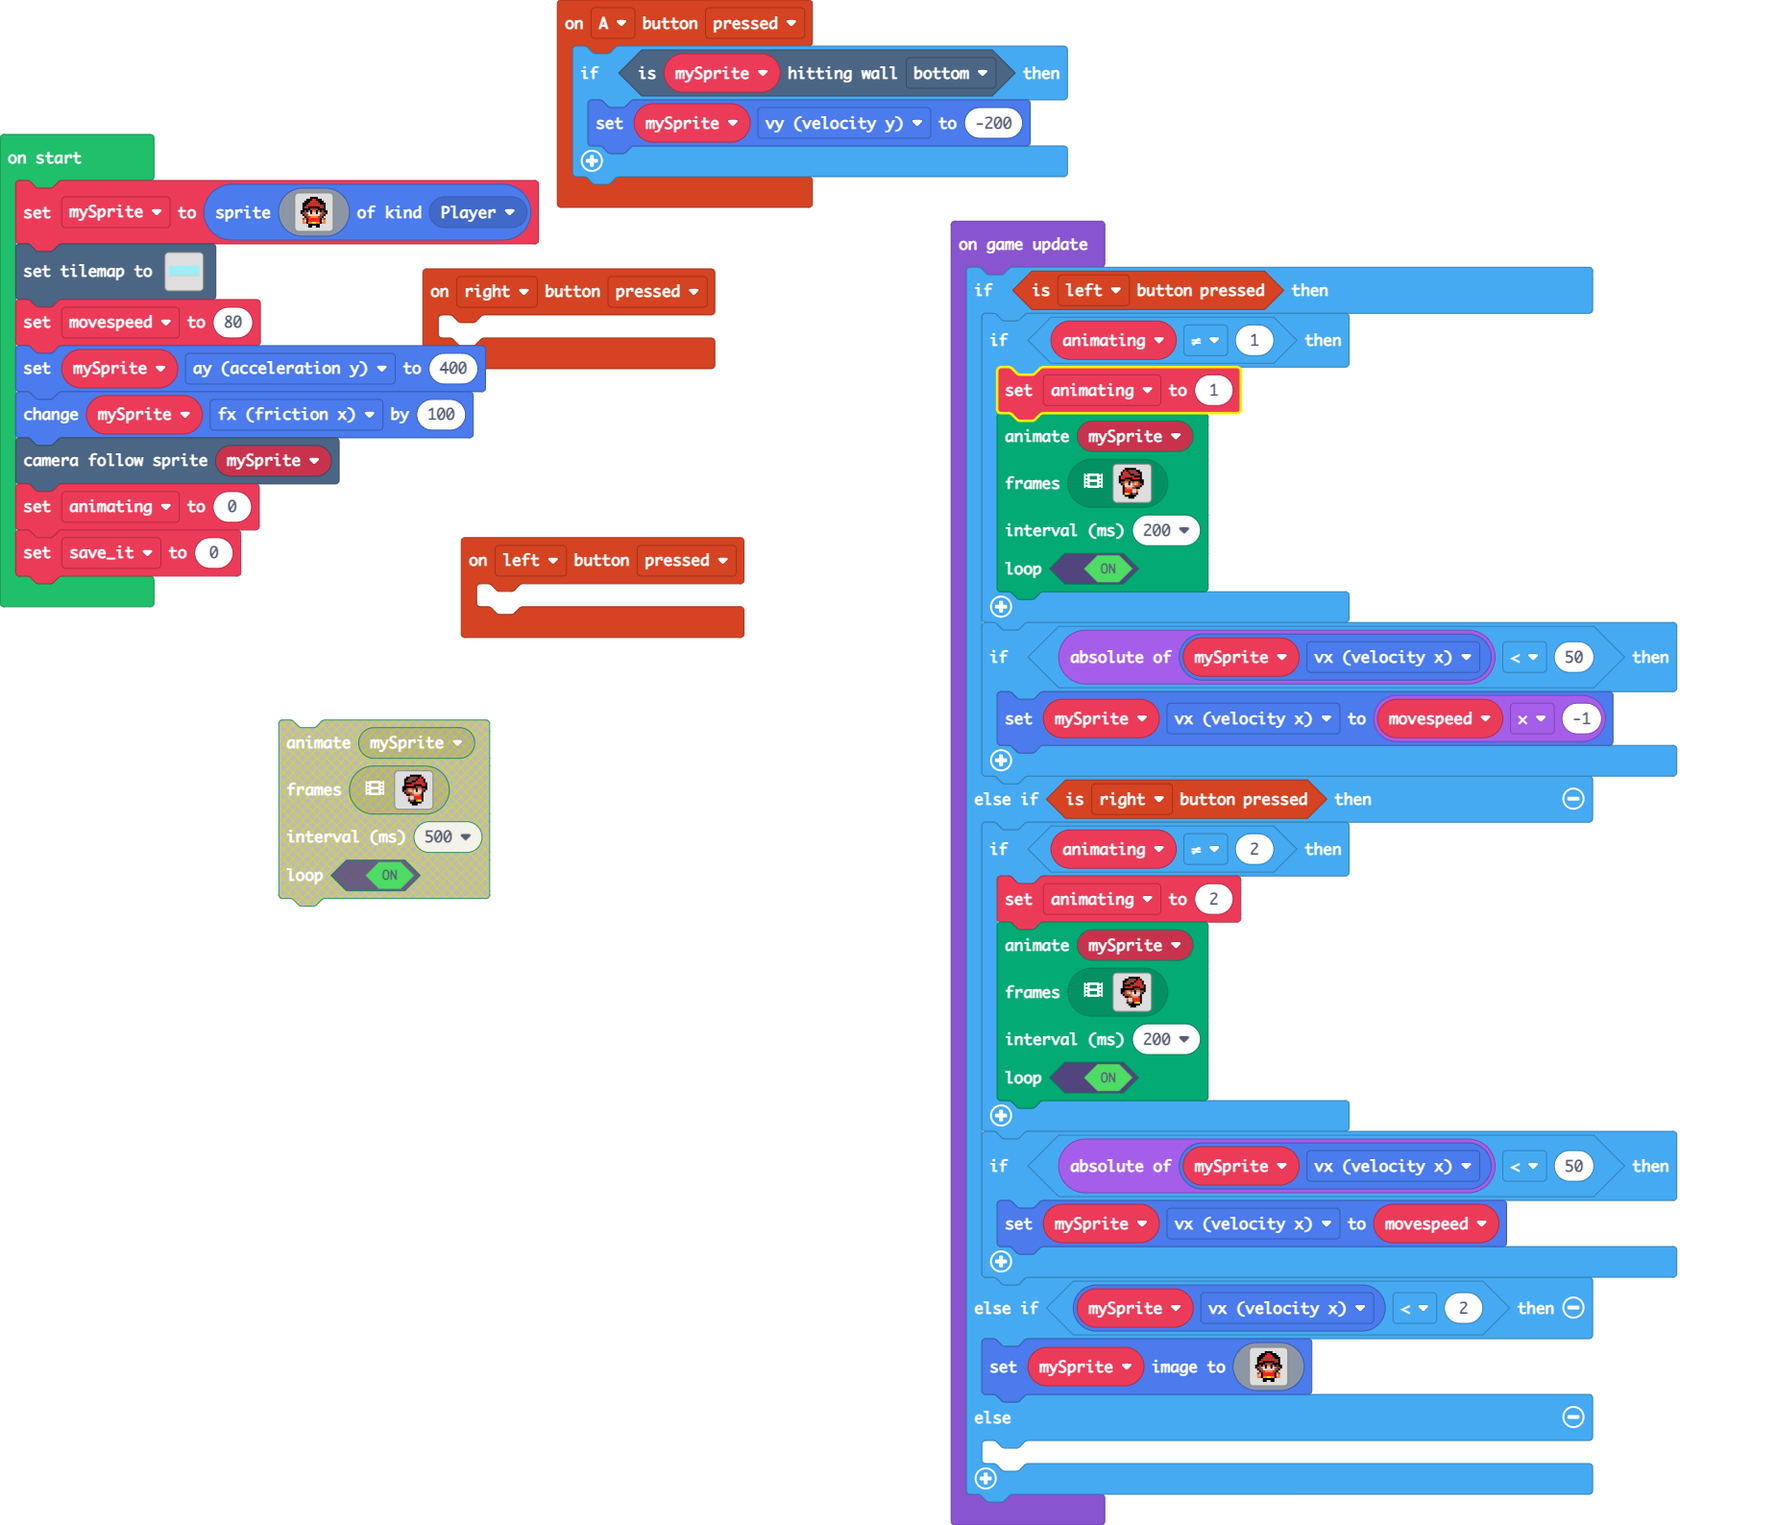
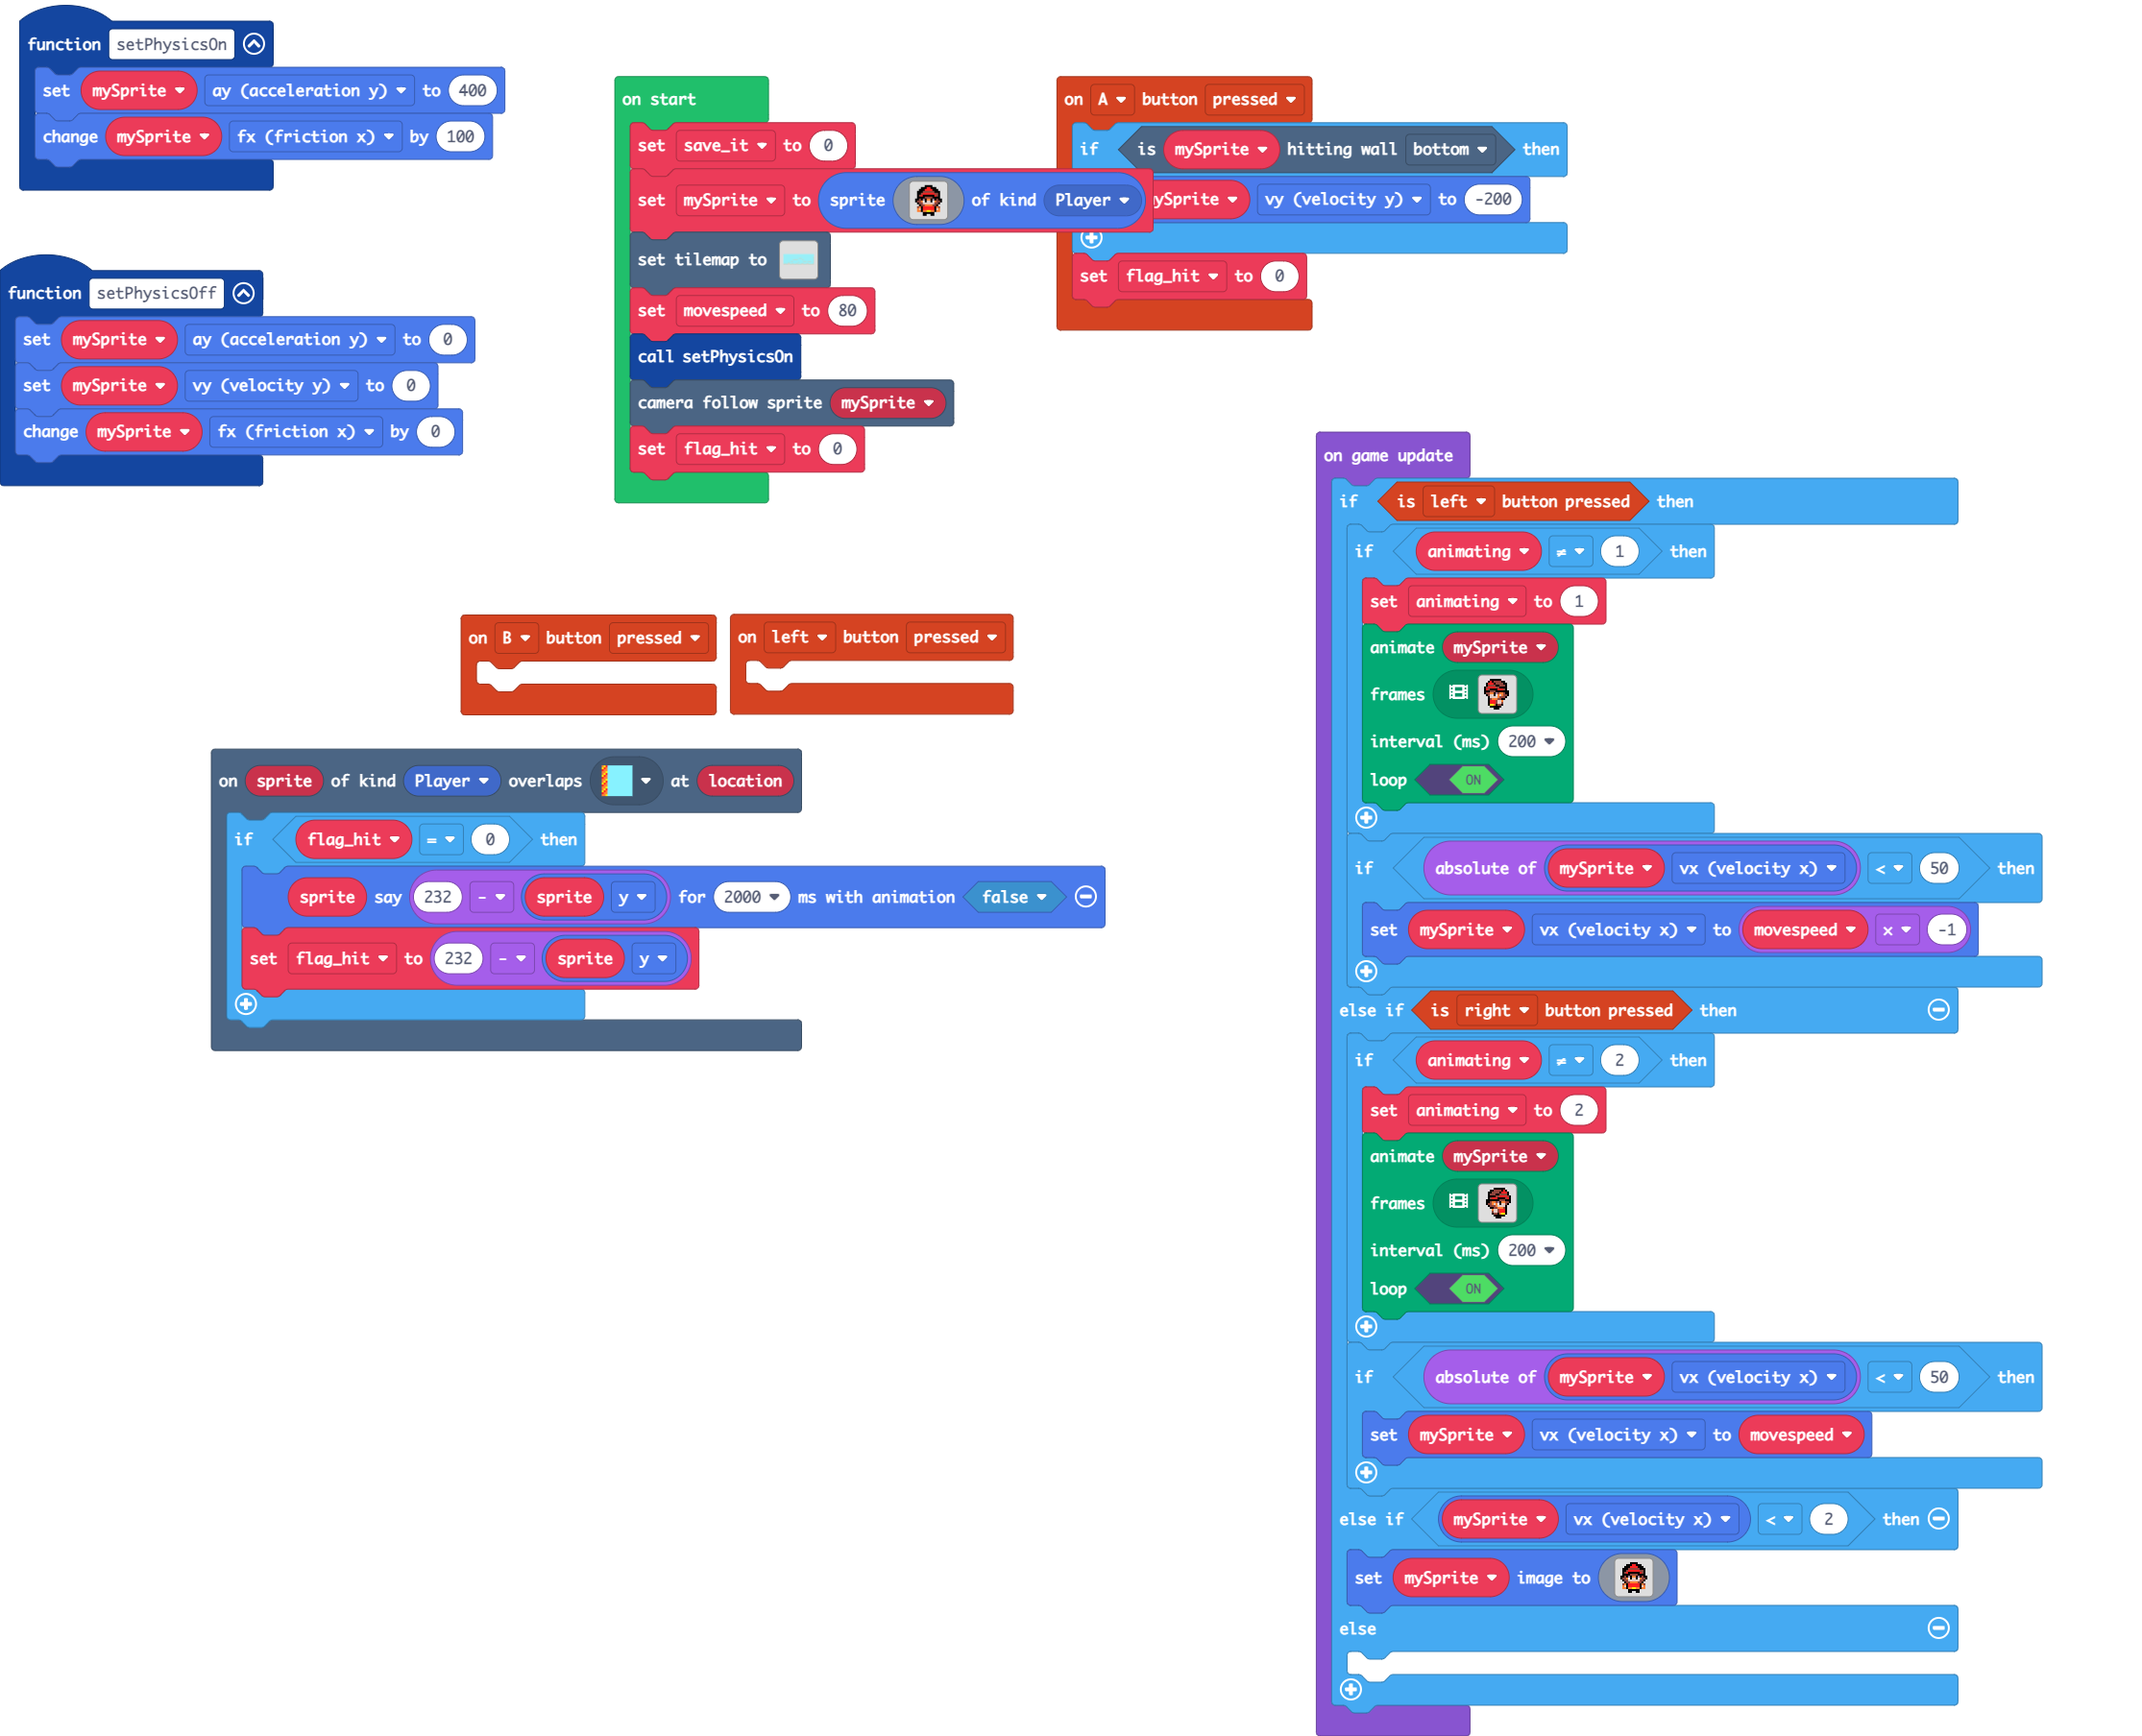
Added scoring flag at the end

diff --git a/tilemap.g.ts b/tilemap.g.ts
@@ -10,28 +10,13 @@ namespace myTiles {
     export const tile3 = image.ofBuffer(hex``);
     //% fixedInstance jres blockIdentity=images._tile
     export const tile4 = image.ofBuffer(hex``);
+    //% fixedInstance jres blockIdentity=images._tile
+    export const tile5 = image.ofBuffer(hex``);
+    //% fixedInstance jres blockIdentity=images._tile
+    export const tile6 = image.ofBuffer(hex``);
 
     helpers._registerFactory("tilemap", function(name: string) {
         switch(helpers.stringTrim(name)) {
-            case "level1":
-            case "level1":return tiles.createTilemap(hex`30001000010101010101010101010101010101010101010101010101010101010101010101010101010101010101010101010101010101010101020101010101010101010101010101010101010101010101010101010101010101010101010101010101010101010101010101010101010101010101010101010101010101010101010101010101010101010101010101010101010101010101010101010101010101010101010101010101010101010101010101010101010101010101010101010101010101010101010101010101010101010101010101010101010101010101010101010101010101010101010101010101010201010101010101010101010101010101010101010101010101010101010101010101010101010101020101010201010101010101010101010101010101010101010101010101030303030301010101010101010101010101010101010101010101010101010201010101010101010101020101010101010101010101010101010101010201010101010101010101010101010101010101010101020101030303030303030301010101010103030301010101010101010101010101010101010101010101010101010101010101010101010101010101010101010102010101010101010101010101010101010201010101010101010101010101010101010101010101020101010201010101010101010101010101010101020101010101010101010201010101010101030303010102010101010101010101010101010303030303010101010303030303030303010201010101010101010101010101010101010101010103030102010101010101010102010101010101010101010101010101010101010105040102010101010101020101010101010101010101010101010101010101010101020101010201010101080101010506070101010108010101010101080101010101010105040101010101010504010101010101010101030303060303030606060303030306030303030303060303030303030306060303030303030606030303030303030303`, img`
-................................................
-................................................
-................................................
-................................................
-................................................
-................................................
-........................22222...................
-................................................
-...............22222222......222................
-................................................
-................................................
-............222................22222....22222222
-.......................22.......................
-........22......................................
-...2...222....2......2.......22......22.........
-222222222222222222222222222222222222222222222222
-`, [myTiles.transparency16,myTiles.tile1,myTiles.tile2,sprites.castle.tilePath2,sprites.castle.tilePath3,sprites.castle.tilePath1,sprites.castle.tilePath5,sprites.castle.tilePath6,myTiles.tile4], TileScale.Sixteen);
             case "level2":
             case "level2":return tiles.createTilemap(hex`30001000010101010101010101010101010101010101010101010101010101010101010101010101010101010101010101010101010101010101020101010101010101010101010101010101010101010101010101010101010101010101010101010101010101010101010101010101010101010101010101010101010101010101010101010101010101010101010101010101010101010101010101010101010101010101010101010101010101010101010101010101010101010101010101010101010101010101010101010101010101010101010101010101010101010101010101010101010101010101010101010101010201010101010101010101010101010101010101010101010101010101010101010101010101010101020101010201010101010101010101010101010101010101010101010101030303030301010101010101010101010101010101010101010101010101010201010101010101010101020101010101010101010101010101010101010201010101010101010101010101010101010101010101020101030303030303030301010101010103030301010101010101010101010101010101010101010101010101010101010101010101010101010101010101010102010101010101010101010101010101010201010101010101010101010101010101010101010101020101010201010101010101010101010101010101020101010101010101010201010101010101030303010102010101010101010101010101010303030303010101010303030303030303010201010101010101010101010101010101010101010103030102010101010101010102010101010101010101010101010101010101010105040102010101010101020101010101010101010101010101010101010101010101020101010201010101080101010506070101010108010101010101080101010101010105040101010101010504010101010101010101030303060303030606060303030306030303030303060303030303030306060303030303030606030303030303030303`, img`
 ................................................
@@ -70,6 +55,25 @@ namespace myTiles {
 . . . . . . . . . . . . . . . . 
 . . . . . . . . . . . . . . . . 
 `, [myTiles.transparency16], TileScale.Sixteen);
+            case "level1":
[1 lines of base64/hex data omitted]
+................................................
+................................................
+................................................
+................................................
+................................................
+................................................
+........................22222...................
+................................................
+...............22222222......222................
+................................................
+................................................
+............222................22222..222222....
+.......................22.......................
+........22......................................
+...2...222....2......2.......22......22.........
+222222222222222222222222222222222222222222222222
+`, [myTiles.transparency16,myTiles.tile1,myTiles.tile2,sprites.castle.tilePath2,sprites.castle.tilePath3,sprites.castle.tilePath1,sprites.castle.tilePath5,sprites.castle.tilePath6,myTiles.tile4,myTiles.tile5,myTiles.tile6], TileScale.Sixteen);
         }
         return null;
     })
@@ -85,6 +89,10 @@ namespace myTiles {
             case "tile3":return tile3;
             case "myTile2":
             case "tile4":return tile4;
+            case "myTile3":
+            case "tile5":return tile5;
+            case "myTile4":
+            case "tile6":return tile6;
         }
         return null;
     })

diff --git a/main.ts b/main.ts
@@ -1,15 +1,34 @@
+function setPhysicsOn () {
+    mySprite.ay = 400
+    mySprite.fx += 100
+}
+function setPhysicsOff () {
+    mySprite.ay = 0
+    mySprite.vy = 0
+    mySprite.fx += 0
+}
+controller.B.onEvent(ControllerButtonEvent.Pressed, function () {
+	
+})
 controller.A.onEvent(ControllerButtonEvent.Pressed, function () {
     if (mySprite.isHittingTile(CollisionDirection.Bottom)) {
         mySprite.vy = -200
     }
+    flag_hit = 0
 })
 controller.left.onEvent(ControllerButtonEvent.Pressed, function () {
 	
 })
-controller.right.onEvent(ControllerButtonEvent.Pressed, function () {
-	
+scene.onOverlapTile(SpriteKind.Player, assets.tile`myTile3`, function (sprite, location) {
+    if (flag_hit == 0) {
+        sprite.sayText(232 - sprite.y, 2000, false)
+        flag_hit = 232 - sprite.y
+    }
 })
+let animating = 0
+let flag_hit = 0
 let mySprite: Sprite = null
+let save_it = 0
 mySprite = sprites.create(img`
     . . . . . . f f f f . . . . . . 
     . . . . f f f 2 2 f f f . . . . 
@@ -30,11 +49,9 @@ mySprite = sprites.create(img`
     `, SpriteKind.Player)
 tiles.setTilemap(tilemap`level1`)
 let movespeed = 80
-mySprite.ay = 400
-mySprite.fx += 100
+setPhysicsOn()
 scene.cameraFollowSprite(mySprite)
-let animating = 0
-let save_it = 0
+flag_hit = 0
 game.onUpdate(function () {
     if (controller.left.isPressed()) {
         if (animating != 1) {

diff --git a/main.py b/main.py
@@ -7,6 +7,14 @@ def on_left_pressed():
     pass
 controller.left.on_event(ControllerButtonEvent.PRESSED, on_left_pressed)
 
+def on_overlap_tile(sprite, location):
+    sprite.say_text(location, 5000, False)
+scene.on_overlap_tile(SpriteKind.player,
+    assets.tile("""
+        myTile3
+    """),
+    on_overlap_tile)
+
 def on_right_pressed():
     pass
 controller.right.on_event(ControllerButtonEvent.PRESSED, on_right_pressed)
@@ -38,33 +46,94 @@ movespeed = 80
 mySprite.ay = 400
 mySprite.fx += 100
 scene.camera_follow_sprite(mySprite)
-animating = 'none'
+animating = 0
+save_it = 0
 
 def on_on_update():
     global animating
     if controller.left.is_pressed():
-        mySprite.set_image(img("""
-            . . . . . . . . . . . . . . . . 
-                        . . . . . f f f f f f . . . . . 
-                        . . . . f 2 f e e e e f f . . . 
-                        . . . f 2 2 2 f e e e e f f . . 
-                        . . . f e e e e f f e e e f . . 
-                        . . f e 2 2 2 2 e e f f f f . . 
-                        . . f 2 e f f f f 2 2 2 e f . . 
-                        . . f f f e e e f f f f f f f . 
-                        . . f e e 4 4 f b e 4 4 e f f . 
-                        . . . f e d d f 1 4 d 4 e e f . 
-                        . . . . f d d d e e e e e f . . 
-                        . . . . f e 4 e d d 4 f . . . . 
-                        . . . . f 2 2 e d d e f . . . . 
-                        . . . f f 5 5 f e e f f f . . . 
-                        . . . f f f f f f f f f f . . . 
-                        . . . . f f f . . . f f . . . .
-        """))
+        if animating != 1:
+            animating = 1
+            animation.run_image_animation(mySprite,
+                [img("""
+                        . . . . f f f f f f . . . . . . 
+                                        . . . f 2 f e e e e f f . . . . 
+                                        . . f 2 2 2 f e e e e f f . . . 
+                                        . . f e e e e f f e e e f . . . 
+                                        . f e 2 2 2 2 e e f f f f . . . 
+                                        . f 2 e f f f f 2 2 2 e f . . . 
+                                        . f f f e e e f f f f f f f . . 
+                                        . f e e 4 4 f b e 4 4 e f f . . 
+                                        . . f e d d f 1 4 d 4 e e f . . 
+                                        . . . f d d d d 4 e e e f . . . 
+                                        . . . f e 4 4 4 e e f f . . . . 
+                                        . . . f 2 2 2 e d d 4 . . . . . 
+                                        . . . f 2 2 2 e d d e . . . . . 
+                                        . . . f 5 5 4 f e e f . . . . . 
+                                        . . . . f f f f f f . . . . . . 
+                                        . . . . . . f f f . . . . . . .
+                    """),
+                    img("""
+                        . . . . . . . . . . . . . . . . 
+                                        . . . . f f f f f f . . . . . . 
+                                        . . . f 2 f e e e e f f . . . . 
+                                        . . f 2 2 2 f e e e e f f . . . 
+                                        . . f e e e e f f e e e f . . . 
+                                        . f e 2 2 2 2 e e f f f f . . . 
+                                        . f 2 e f f f f 2 2 2 e f . . . 
+                                        . f f f e e e f f f f f f f . . 
+                                        . f e e 4 4 f b e 4 4 e f f . . 
+                                        . . f e d d f 1 4 d 4 e e f . . 
+                                        . . . f d d d e e e e e f . . . 
+                                        . . . f e 4 e d d 4 f . . . . . 
+                                        . . . f 2 2 e d d e f . . . . . 
+                                        . . f f 5 5 f e e f f f . . . . 
+                                        . . f f f f f f f f f f . . . . 
+                                        . . . f f f . . . f f . . . . .
+                    """),
+                    img("""
+                        . . . . f f f f f f . . . . . . 
+                                        . . . f 2 f e e e e f f . . . . 
+                                        . . f 2 2 2 f e e e e f f . . . 
+                                        . . f e e e e f f e e e f . . . 
+                                        . f e 2 2 2 2 e e f f f f . . . 
+                                        . f 2 e f f f f 2 2 2 e f . . . 
+                                        . f f f e e e f f f f f f f . . 
+                                        . f e e 4 4 f b e 4 4 e f f . . 
+                                        . . f e d d f 1 4 d 4 e e f . . 
+                                        . . . f d d d d 4 e e e f . . . 
+                                        . . . f e 4 4 4 e e f f . . . . 
+                                        . . . f 2 2 2 e d d 4 . . . . . 
+                                        . . . f 2 2 2 e d d e . . . . . 
+                                        . . . f 5 5 4 f e e f . . . . . 
+                                        . . . . f f f f f f . . . . . . 
+                                        . . . . . . f f f . . . . . . .
+                    """),
+                    img("""
+                        . . . . . . . . . . . . . . . . 
+                                        . . . . f f f f f f . . . . . . 
+                                        . . . f 2 f e e e e f f . . . . 
+                                        . . f 2 2 2 f e e e e f f . . . 
+                                        . . f e e e e f f e e e f . . . 
+                                        . f e 2 2 2 2 e e f f f f . . . 
+                                        . f 2 e f f f f 2 2 2 e f . . . 
+                                        . f f f e e e f f f f f f f . . 
+                                        . f e e 4 4 f b e 4 4 e f f . . 
+                                        . . f e d d f 1 4 d 4 e e f . . 
+                                        . . . f d d d d 4 e e e f . . . 
+                                        . . . f e 4 4 4 e d d 4 . . . . 
+                                        . . . f 2 2 2 2 e d d e . . . . 
+                                        . . f f 5 5 4 4 f e e f . . . . 
+                                        . . f f f f f f f f f f . . . . 
+                                        . . . f f f . . . f f . . . . .
+                    """)],
+                200,
+                True)
         if abs(mySprite.vx) < 50:
             mySprite.vx = movespeed * -1
     elif controller.right.is_pressed():
-        if animating != 'right':
+        if animating != 2:
+            animating = 2
             animation.run_image_animation(mySprite,
                 [img("""
                         . . . . . . f f f f f f . . . . 
@@ -138,7 +207,7 @@ def on_on_update():
                                         . . . . f f f f f f f f f f . . 
                                         . . . . . f f . . . f f f . . .
                     """)],
-                500,
+                200,
                 True)
         if abs(mySprite.vx) < 50:
             mySprite.vx = movespeed
